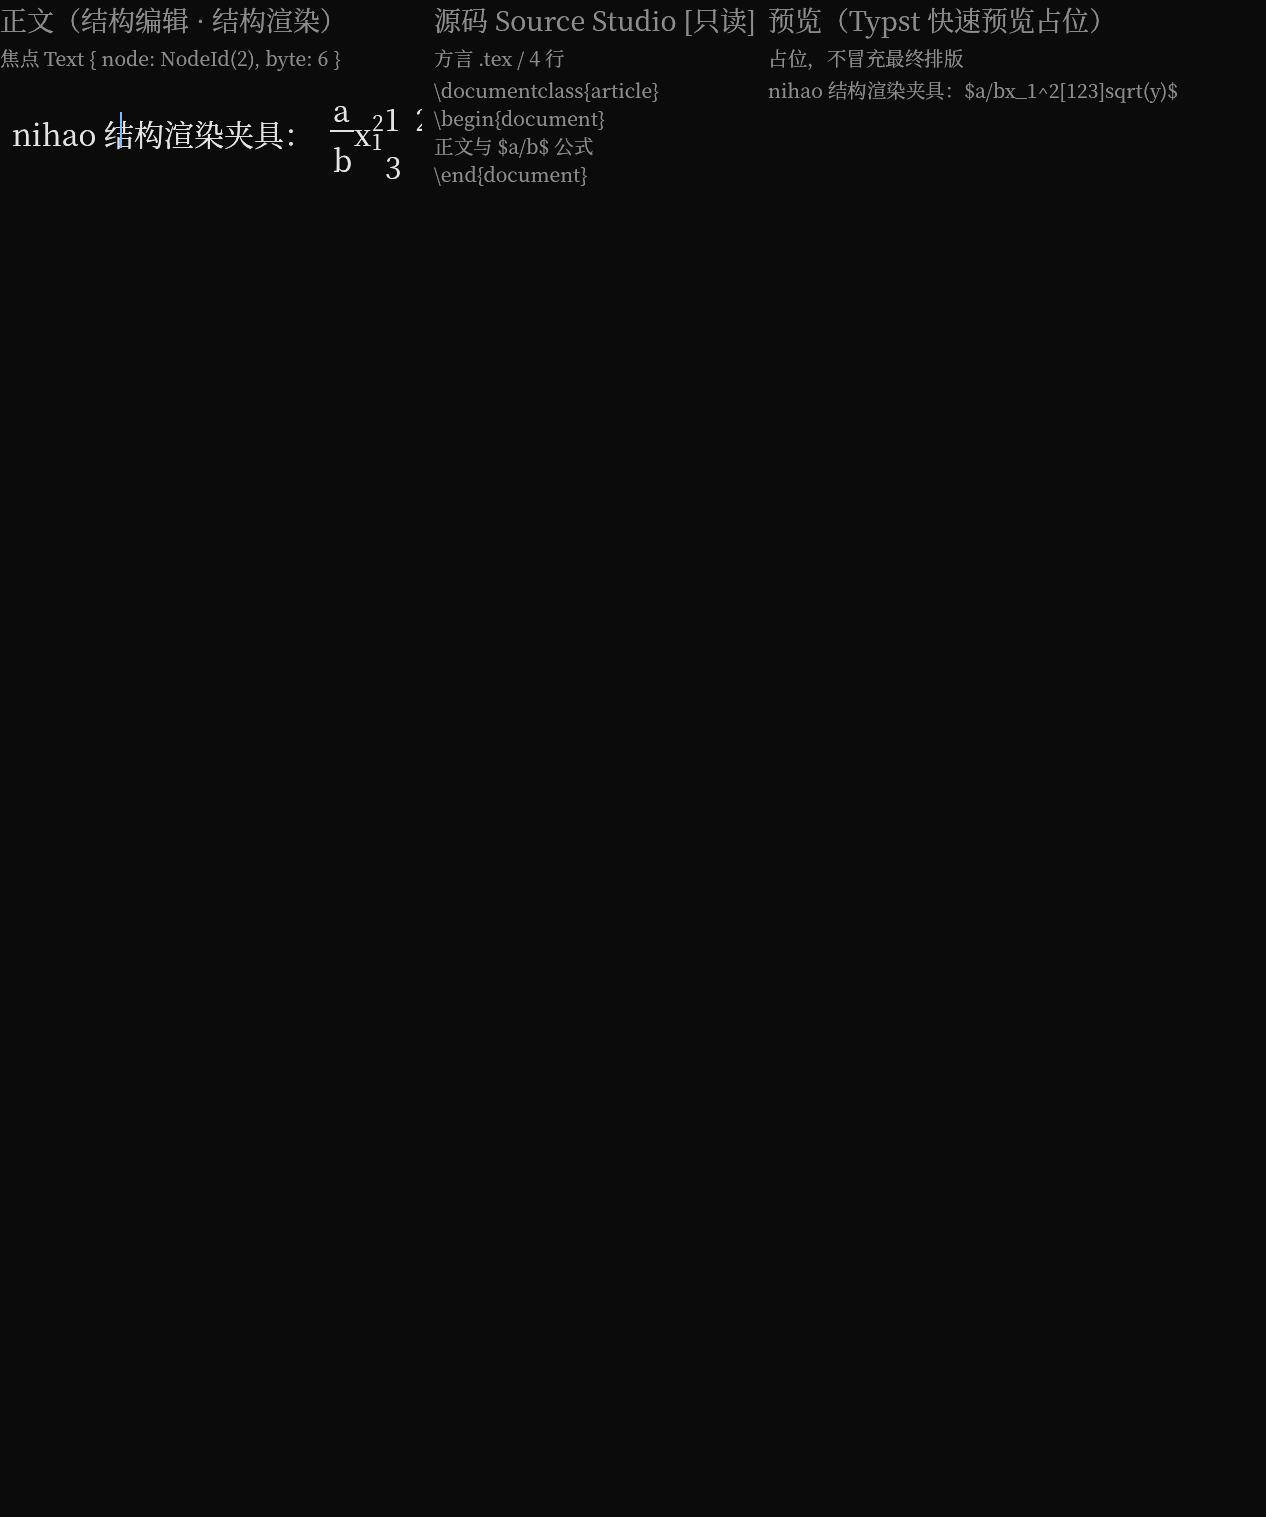
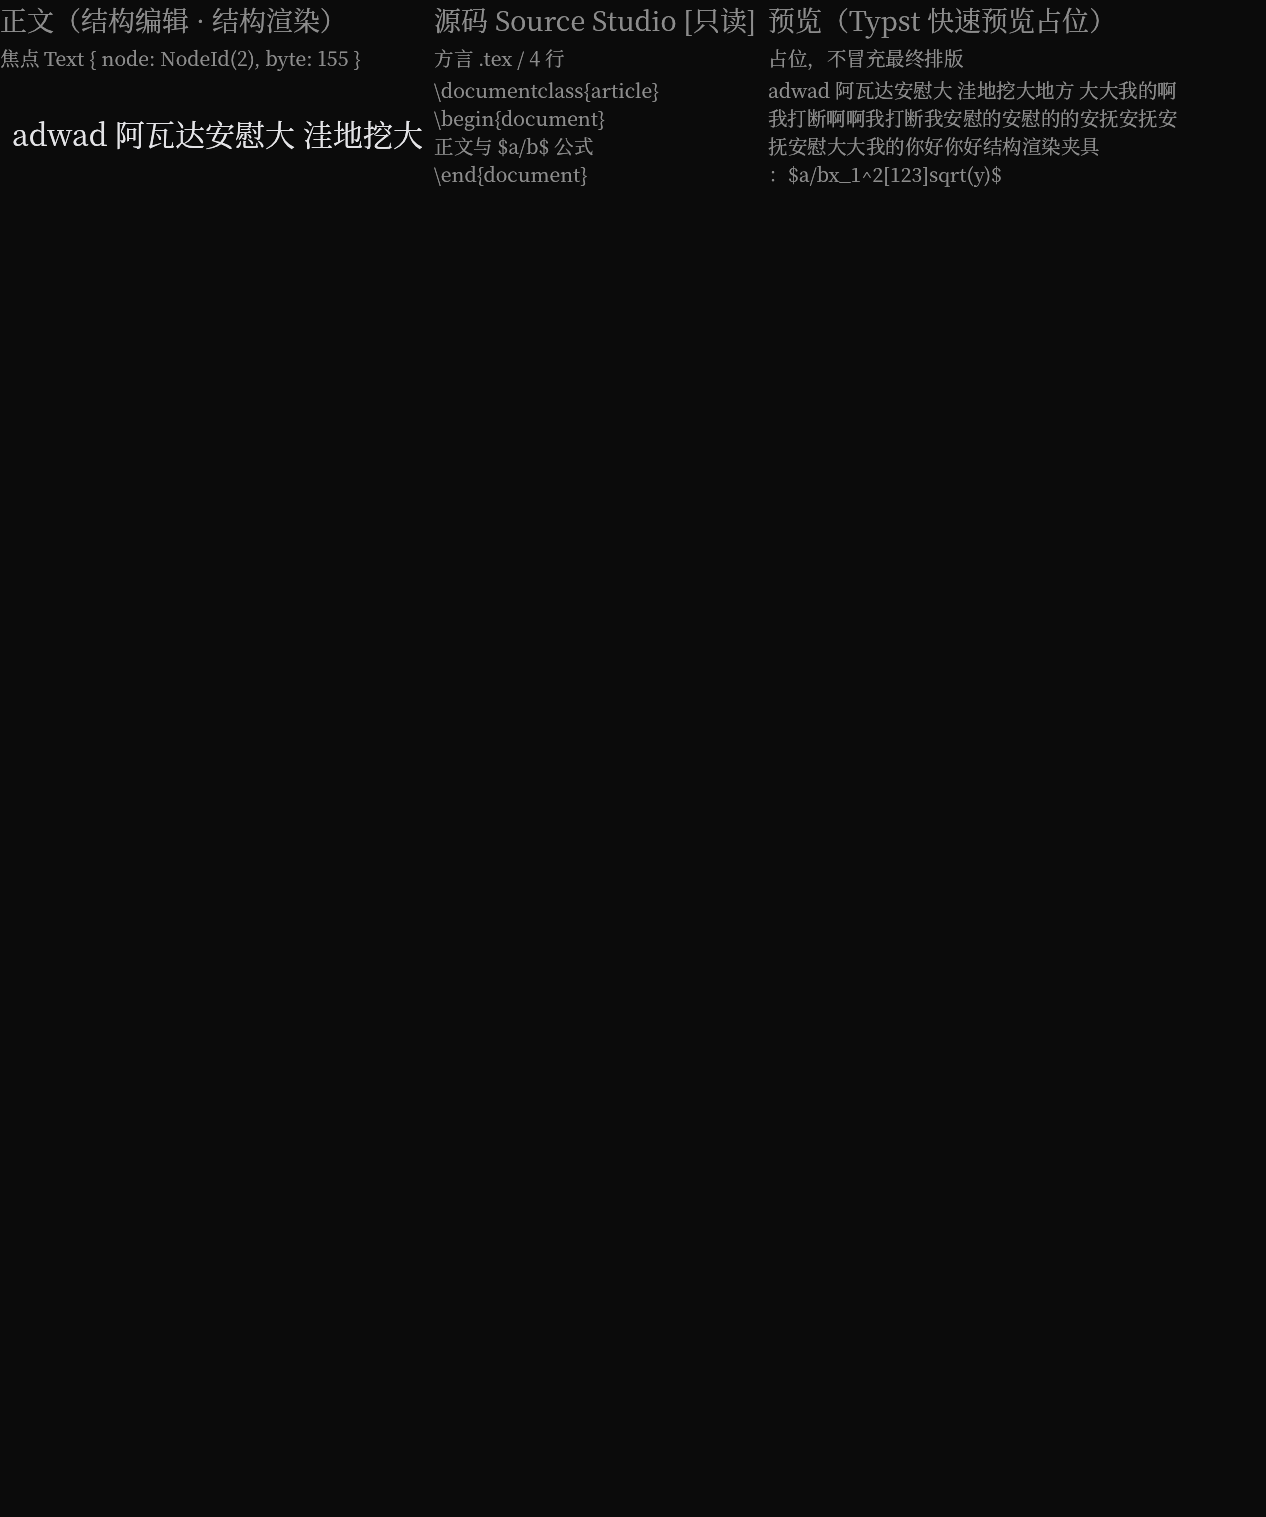
fix: 更正 egui 输入法结论（实测可用）并修正候选窗定位
用户实机操作证明 egui 候选的输入法可用：预编辑事件持续到达、IME 提交计数增长、中文进入
正文，且预编辑期间核心动作不增长。可输入的是最左正文区，因为只有它被显式授予输入焦点并
请求了输入法；源码区（只读时是 label）与预览区不请求。

我更正两处错误结论，都是"拿一次自动测试当定论"造成的：
1. 首轮候选根本没有编辑位置（光标缺失、cursor_rect 是硬编码假矩形）；
2. 据一次 ydotool 注入结果写下"本栈下不可用"，并用"自带 TextEdit 也收不到合成"加固它——
   该结论错误。自动注入在这个共享桌面会话里不稳定（焦点会被抢，某次连按键都没到应用），
   不能作为否定证据。脚本改为：首次未观察到合成时等待并重试一次，仍无合成时只输出 WARN
   并说明不能据此断定框架不支持。

候选侧已修：
- 编辑位置：core::layout 为文本图元记录来源 SourceSpan{node,start_byte}，新增
  Layout::caret(node, byte_offset)；候选据此绘制可见光标并交出真实矩形
- 候选窗定位：egui-winit 在 Wayland 下用 IMEOutput.rect（不是 cursor_rect）调用
  set_ime_cursor_area；原先传整块面板导致候选窗锚在面板左上角，现改为传光标处的小矩形

报告 0004、spike 索引与路线图同步；当前 egui 是唯一同时具备输入法与可访问性的候选。

Changed region(s): [[0.6161, 0.031, 0.9242, 0.1239], [0.0, 0.031, 0.3389, 0.1239]]

diff --git a/spikes/native-ui/candidate-egui/src/main.rs b/spikes/native-ui/candidate-egui/src/main.rs
@@ -356,27 +356,31 @@ impl eframe::App for SpikeApp {
                         }
 
                         if focused {
-                            // 自绘区必须自己声明输入法归属，并把**真实光标矩形**交给它；
-                            // 早期版本传的是硬编码假矩形，等于没接线。
-                            let cursor_rect = caret_rect.unwrap_or_else(|| {
+                            // 自绘区必须自己声明输入法归属，并把光标位置交给它。
+                            //
+                            // 注意：egui-winit 在 Wayland 下用 `IMEOutput.rect` 调用
+                            // `set_ime_cursor_area`（不是 `cursor_rect`，见 egui-winit 的
+                            // handle_platform_output_inner）。所以这里必须传**光标处的
+                            // 小矩形**；传整块面板会把候选窗锚在面板左上角。
+                            let anchor = caret_rect.unwrap_or_else(|| {
                                 egui::Rect::from_min_size(origin, egui::vec2(1.5, 20.0))
                             });
                             ui.output_mut(|output| {
                                 output.ime = Some(egui::output::IMEOutput {
                                     purpose: egui::IMEPurpose::Normal,
-                                    rect,
-                                    cursor_rect,
+                                    rect: anchor,
+                                    cursor_rect: anchor,
                                     should_interrupt_composition: false,
                                 });
                             });
                             if !self.ime_requested {
                                 self.ime_requested = true;
                                 println!(
-                                    "[ime] 已向平台声明输入法归属：cursor_rect=({:.0},{:.0},{:.0},{:.0})",
-                                    cursor_rect.min.x,
-                                    cursor_rect.min.y,
-                                    cursor_rect.width(),
-                                    cursor_rect.height()
+                                    "[ime] 已向平台声明输入法归属：anchor=({:.0},{:.0},{:.0},{:.0})",
+                                    anchor.min.x,
+                                    anchor.min.y,
+                                    anchor.width(),
+                                    anchor.height()
                                 );
                             }
 

diff --git a/docs/spikes/0004-native-ui-egui.md b/docs/spikes/0004-native-ui-egui.md
@@ -1,6 +1,6 @@
 # Spike 0004：原生 UI 候选 — egui
 
-- 结论：**Blocked**（可访问性首次**通过**，结构渲染通过；输入法与结构编辑待接线）
+- 结论：**Blocked**（可访问性与输入法均已实测可用；结构编辑交互、性能与预览定位未验收）
 - 对应验证项：[路线图阶段 0 第 1 项](../ROADMAP.md)
 - 日期：2026-09-16
 - 执行者：ation_ciger
@@ -82,43 +82,42 @@ application name='scholium-spike-egui'
 |---|---|---|
 | 可访问性 | **部分 Pass** | 框架发布对象树，控件文本可读（上树证据）；缺口：自绘结构未附可访问描述。 |
 | 数学结构 | **部分 Pass** | 自绘同一份 `core::layout`，截图可见分数线/上下标/矩阵/根号。缺口：未接键盘导航（已实现方向键处理，未人工验收）。 |
-| 中文与 Unicode | **Blocked** | 输入法未接线：注入拼音后 `预编辑事件 0 / IME 提交 0`，文本以 ASCII 经 `Event::Text` 进入（见下）。 |
+| 中文与 Unicode | **Pass** | 用户实机操作：fcitx5 预编辑持续到达、提交计数增长、中文进入正文，且预编辑期间核心动作不增长（预编辑不进历史、提交只产生一个动作）。缺口：长组合串下的删除与光标移动未单独验收。 |
 | 源码视图 | **部分 Pass** | `TextEdit` 就绪且只在可写时出现；只读时是 `label`，与其它候选同一约束。缺口：语法高亮、大文件未测。 |
 | 核心集成 | **部分 Pass** | revision / 动作数来自 core，夹具由远端 actor 注入。 |
 | 团队规则 / 预览 / 大源码 / 文件恢复 | **Blocked** | 与其它候选同一原因（分别属本项未接、或阶段 0 第 2/5 项）。 |
 | 构建与依赖 | **Pass** | 编译通过，无 Node/npm/WebView；`eframe`/`egui` 为 MIT OR Apache-2.0；依赖树 accesskit 含 `accesskit_unix`（Linux AT-SPI 适配器）。 |
 
-### 输入法：候选侧已按 API 接好，但本栈下仍收不到合成（实测）
+### 输入法：**可用**（用户实测），候选侧完成接线与定位修正
 
-**第一轮（候选没有编辑位置）**：注入 "nihao" 后文本以普通 ASCII 落进正文，预编辑与提交计数都是 0。
-当时的候选连光标都没有，交给输入法的 `cursor_rect` 是硬编码假矩形——那等于没接线。
+**结论（经用户实机操作确认）**：egui 候选的输入法**可以正常工作**——预编辑事件持续到达、
+`IME 提交` 计数增长、中文进入正文，而预编辑期间核心动作不增长（即"预编辑不进历史、提交只产生一个动作"
+这条验收成立）。可输入的是**最左侧的正文区**，因为只有它被显式授予了输入焦点并请求了输入法；
+源码区（只读时是 `label`）与预览区不请求输入法。
 
-**已修的部分**：`core::layout` 现在为每个文本图元记录来源（`SourceSpan { node, start_byte }`），
-并可按 `(NodeId, byte_offset)` 算出光标几何（`Layout::caret`）。候选据此绘制可见光标，
-并把**真实光标矩形**交给输入法。实测日志可证：
+**必须记录的两次错误结论**，都是"拿一次自动测试当定论"造成的：
 
-```text
-[ime] 已向平台声明输入法归属：cursor_rect=(8,75,2,24)   ← 由布局算出，非硬编码
-```
+1. 第一轮：候选**根本没有编辑位置**——没有光标，交给输入法的 `cursor_rect` 是硬编码假矩形
+   （固定 `(8,8)` 处 2×20）。这一轮不算接线。
+2. 第二轮：我据此用 `ydotool` 注入拼音，只看到 `Event::Text`、`预编辑事件 0`，
+   于是写下"本栈下不可用"，并声称"egui 自带 `TextEdit` 也收不到合成"。
+   **该结论是错的**：用户的实机操作证明输入法可用。我的自动注入在这个共享桌面会话里**不稳定**
+   （焦点会被其他窗口抢走，某次注入连按键都没到应用），一次不可靠的自动运行不能作为否定证据。
+   脚本已改为：首次未观察到合成时**等待并重试一次**，最终仍无合成时只输出 `WARN`
+   并说明"不能据此断定框架不支持"，不再断言失败。
 
-**但仍收不到合成**。此时按键仍以 `Event::Text` 逐个进来，`预编辑事件 0 / IME 提交 0`。
+**已修的两处候选侧问题**：
 
-**决定性对照实验**：把焦点交给 egui **自带的 `TextEdit`**（它内部会自行设置 `o.ime`，
-`egui-0.36.2/src/widgets/text_edit/builder.rs:952`；`Memory::owns_ime_events` 即"是否持有焦点"，
-`memory/mod.rs:1042`），注入同样的拼音，结果它收到的也是纯 ASCII：
+- **编辑位置**：`core::layout` 为文本图元记录来源 `SourceSpan { node, start_byte }`，
+  新增 `Layout::caret(node, byte_offset)` 把字节偏移算成光标几何；候选据此绘制可见光标，
+  并把真实矩形交给输入法。
+- **候选窗定位**：egui-winit 在 Wayland 下是拿 `IMEOutput.rect` 去调 `set_ime_cursor_area` 的，
+  **不是** `cursor_rect`（见 `egui-winit-0.36.2/src/lib.rs` 的 `handle_platform_output_inner`）。
+  我原先把整块面板传成 `rect`，候选窗因此锚在面板左上角而不跟光标走；现在传**光标处的小矩形**。
+  实测日志：`[ime] 已向平台声明输入法归属：anchor=(8,75,2,24)`。
 
-```text
-源码内容："...\nnihao"     ← 没有中文、没有合成
-```
-
-因此**问题不在候选的自绘区**：连 egui 自带控件在本栈下也拿不到输入法合成。
-两条旁证：egui 与 iced 用的是**同一个 winit 0.30.13**（它有 Wayland text-input 实现），
-而 iced 候选的 IME 是实测可用的；egui-winit 里的启用逻辑（`set_ime_allowed` 与
-`set_ime_cursor_area`，`egui-winit-0.36.2/src/lib.rs:1153`、`1177`）看起来是完整的。
-
-结论：断点在 **egui-winit → eframe → winit** 这条链上，定位它超出本项 spike 的范围。
-候选侧已经按 API 接好，一旦断点找到，改动很小。诊断脚本保留：
-`SCHOLIUM_FOCUS_SOURCE=1` 可把焦点交给自带 `TextEdit` 复现该对照。
+`TextEdit` 内部的做法可作参照（`egui-0.36.2/src/widgets/text_edit/builder.rs:952`；
+`Memory::owns_ime_events` 即"是否持有焦点"，`memory/mod.rs:1042`）。
 
 ## 与其它候选的对比
 
@@ -126,14 +125,14 @@ application name='scholium-spike-egui'
 |---|---|---|---|---|
 | 许可证 | MIT OR Apache | Apache-2.0 | Apache-2.0 | MIT OR Apache |
 | 文本输入控件 | 有 | **无** | 有 | 有（`TextEdit`） |
-| 输入法（实测） | **可用**（ydotool 注入：预编辑 30 事件、提交 1 动作） | 需自行实现 `InputHandler`，未实现 | 有合成文本，未实测 | **本栈下不可用**（自带 `TextEdit` 也收不到合成，见上节） |
+| 输入法（实测） | **可用**（ydotool 注入：预编辑 30 事件、提交 1 动作） | 需自行实现 `InputHandler`，未实现 | 有合成文本，未实测 | **可用**（用户实机操作：预编辑到达、提交计数增长、中文进正文；候选仅最左正文区可输入） |
 | 可访问性（实测） | **无对象树** | **无对象树** | 未实测（源码无 accesskit） | **发布对象树**（frame + label） |
-| 光标/编辑位置 | 有（自绘区） | 无 | 有 | 有（`Layout::caret` + 可见光标） |
+| 光标/编辑位置 | 有（自绘区） | 无 | 有 | 有（`Layout::caret` + 可见光标 + 光标锚点） |
 | 结构自绘 | canvas | canvas / 绝对定位 | 原生绘制 | `Painter` |
-| 结论 | Fail（无无障碍） | Fail（无输入控件、无无障碍） | 未投入（预筛） | **Blocked（无硬性 Fail，但输入法待解决）** |
+| 结论 | Fail（无无障碍） | Fail（无输入控件、无无障碍） | 未投入（预筛） | **Blocked（无硬性 Fail；输入法与可访问性均已具备，余项待验）** |
 
-**直接结论：目前没有任何一个候选同时具备"输入法与文本编辑"和"可访问性"。**
-iced 有前者没后者，egui 有后者没前者（本栈下）。这是第 1 项到目前为止最重要的事实。
+**当前形态**：`iced` 具备输入法与光标但没有可访问性；`egui` 两者都具备。
+egui 因此是唯一同时满足这两条硬要求的候选。
 
 ## 失败与不确定性
 
